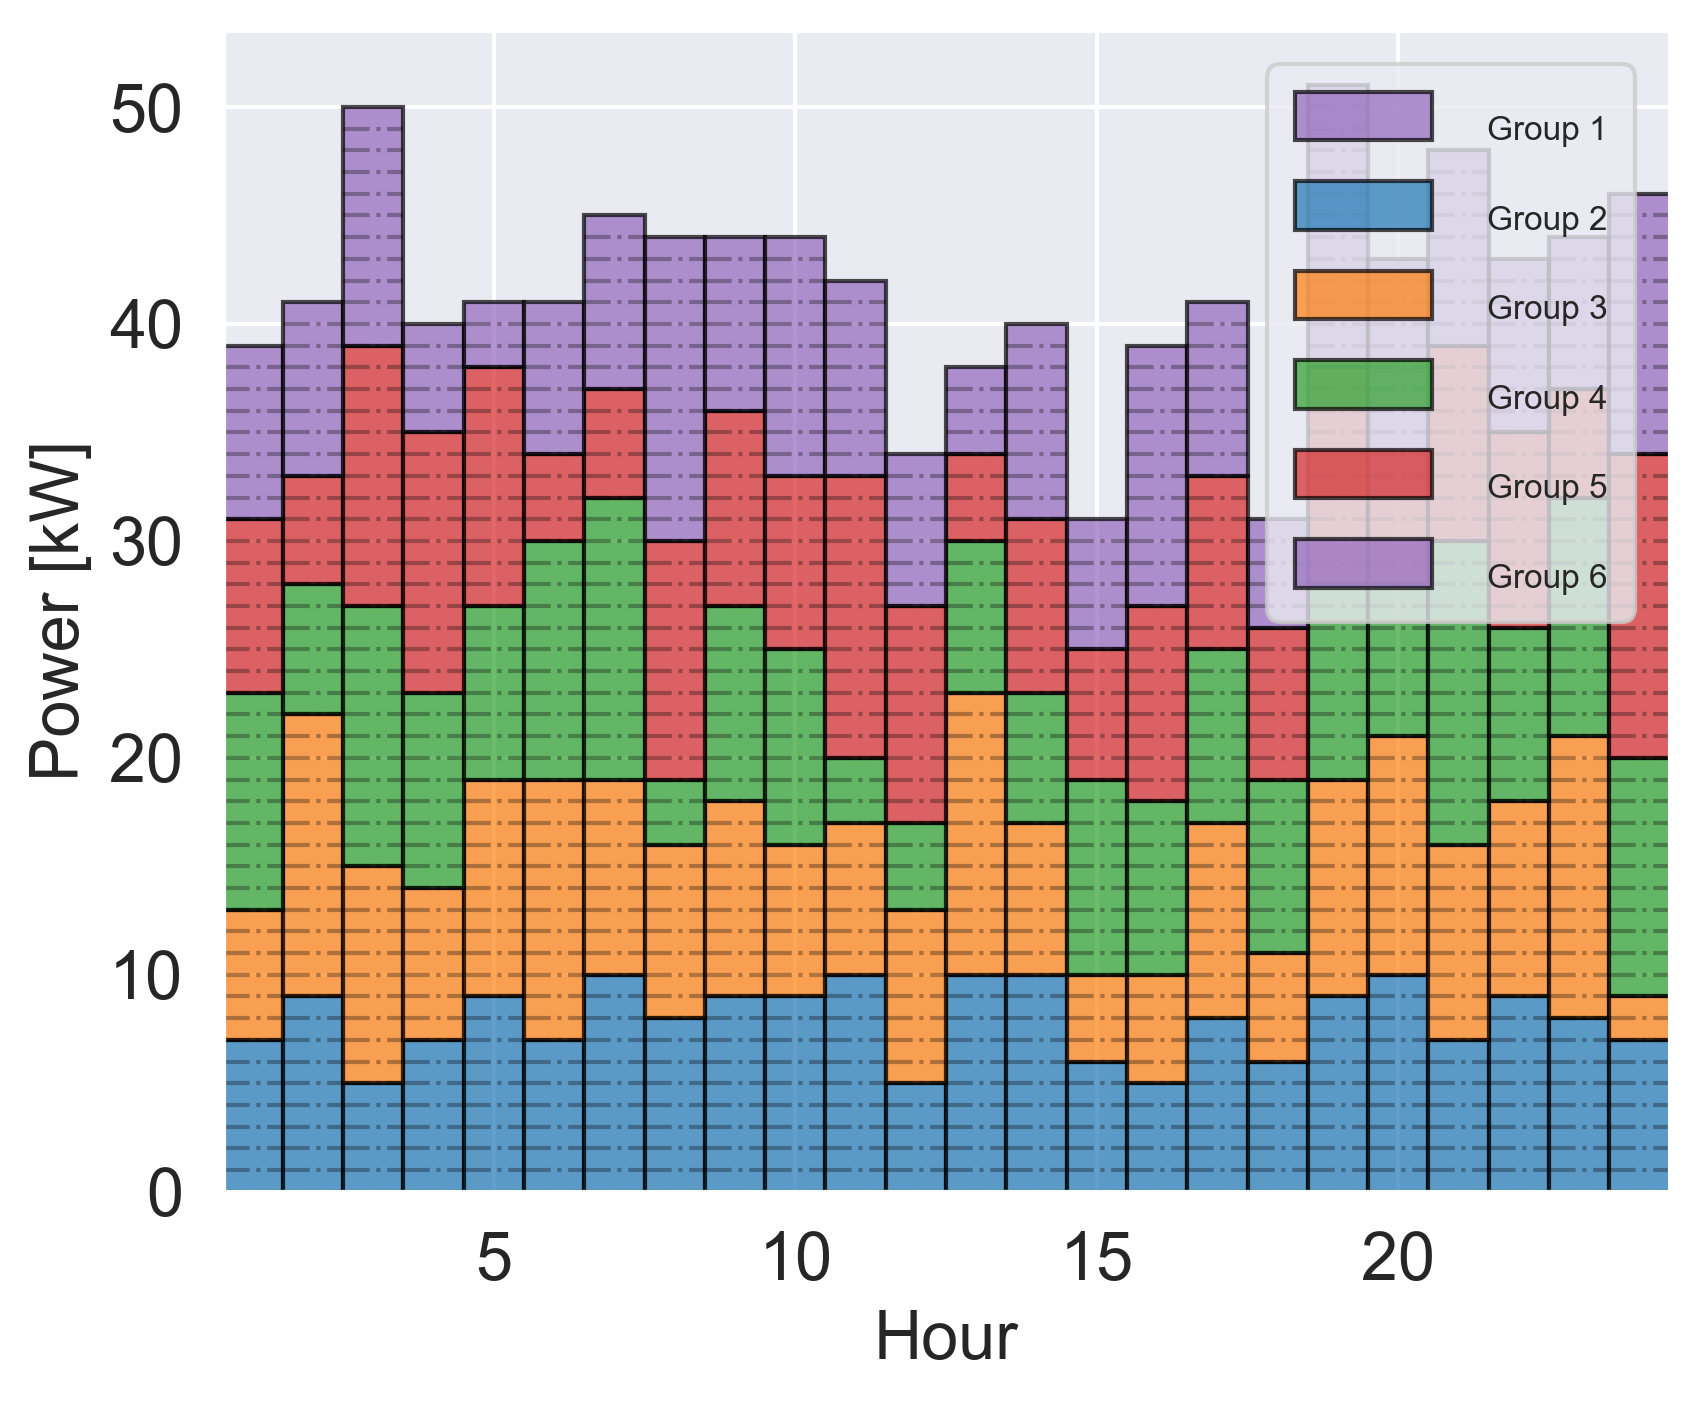
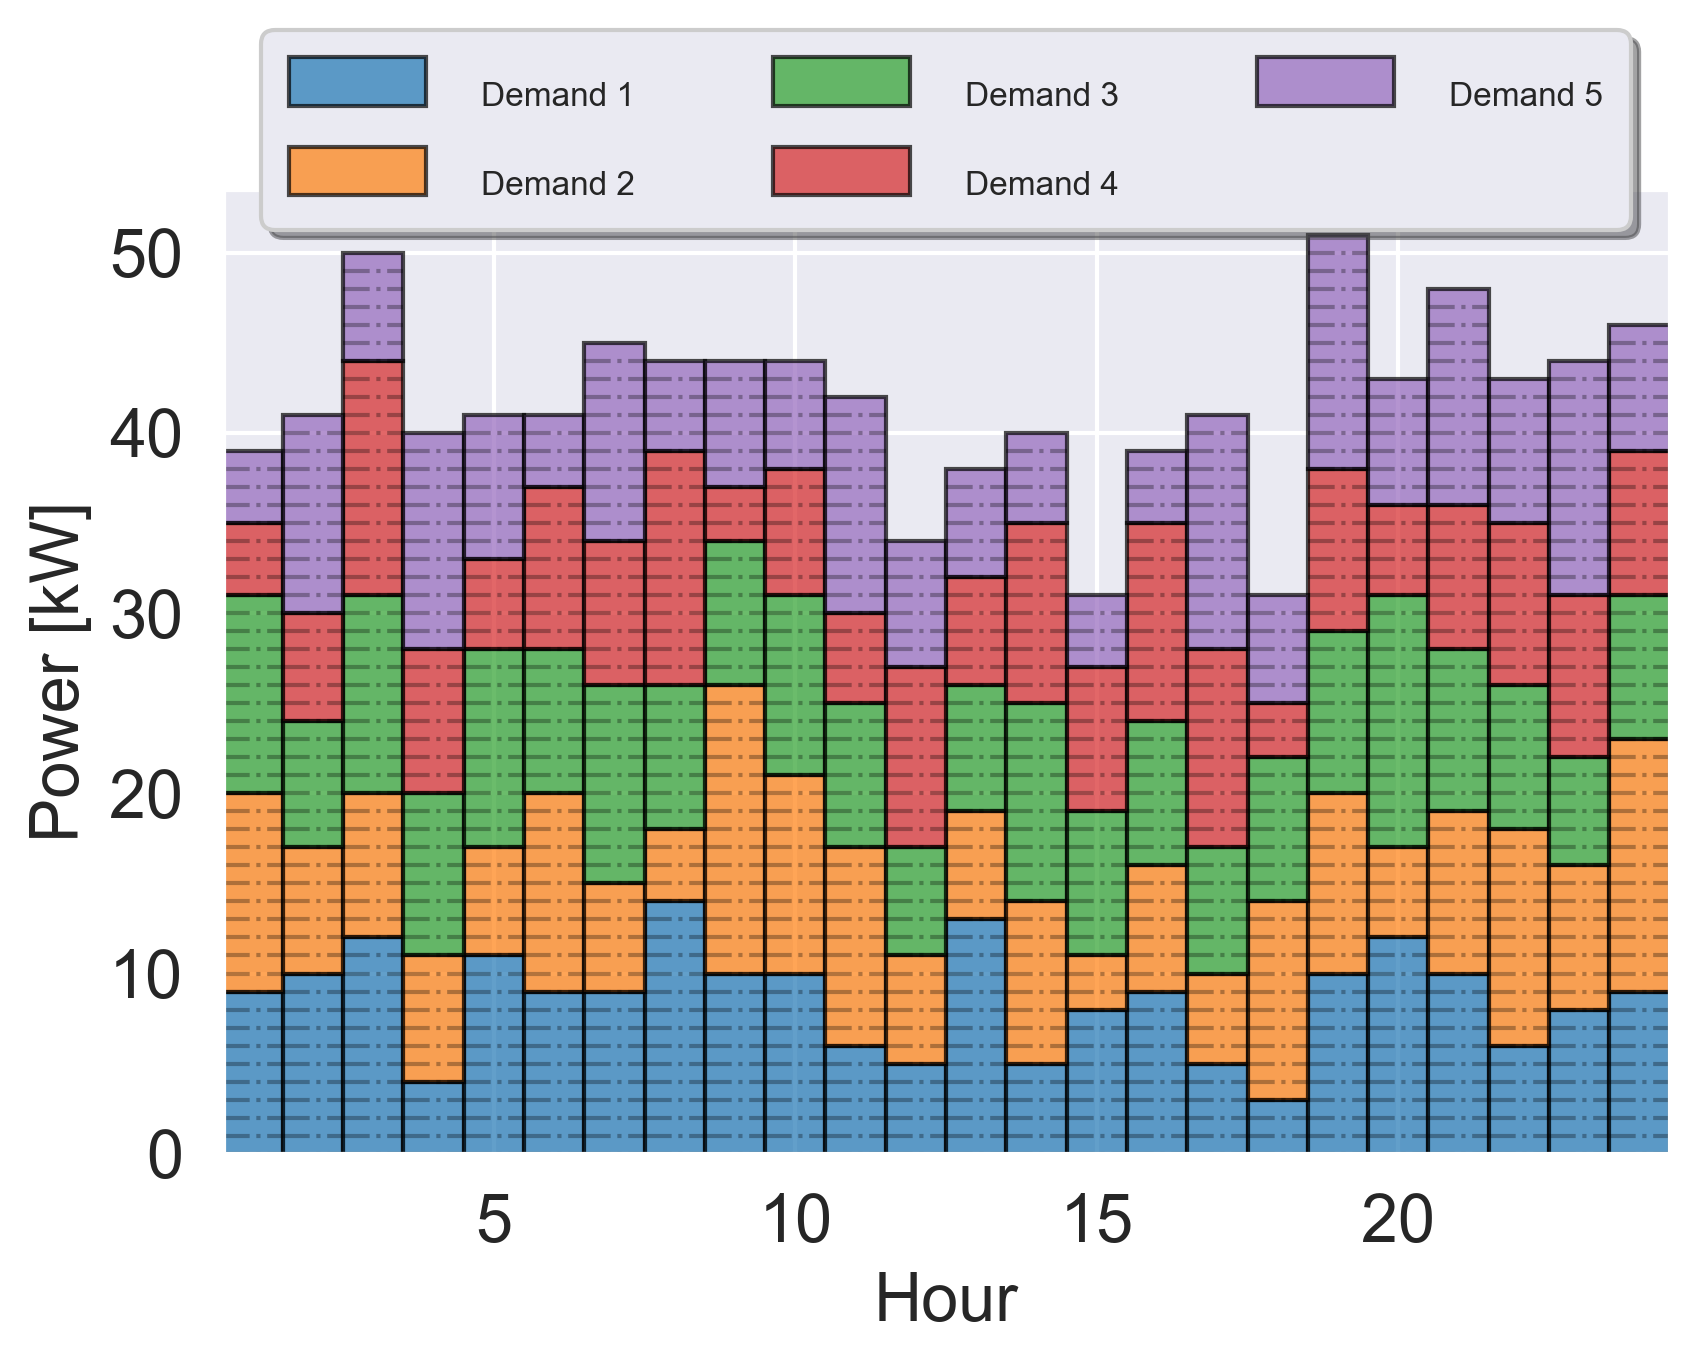
Fix plot.

diff --git a/src/synergy.py b/src/synergy.py
@@ -174,8 +174,10 @@ bottom = np.zeros(24)
 # _n = 200
 # assert _n < len(x)
 # for j in range(_n):
+# create G colors:
 colors = sns.color_palette("tab10", G)
-for j in range(G + 1):
+# colors = ["C1", "C2", "C3", "C4", "C5"]
+for j in range(1, G + 1):
     ix = groups == j
     print(j, end="\r")
     _y = np.zeros(24)
@@ -192,7 +194,7 @@ for j in range(G + 1):
         edgecolor="black",
         bottom=bottom,
         color=color,
-        label=f"Group {j+1}",
+        label=f"Demand {j}",
         width=1.0,
         alpha=0.7,
     )
@@ -219,7 +221,16 @@ ax.set_xlabel("Hour")
 ax.set_xlim(0.5, 24.5)
 # ax.set_ylim(0, 3)
 ax.set_ylabel("Power [kW]")
-ax.legend()
+
+# place legend outside of plot on top
+ax.legend(
+    bbox_to_anchor=(0.5, 1.20),
+    loc="upper center",
+    ncol=3,
+    fancybox=True,
+    shadow=True,
+)
+
 _set_font_size(ax, 16, 8)
 plt.tight_layout()
 plt.savefig("tex/figures/assets2.png", bbox_inches="tight", dpi=300)
